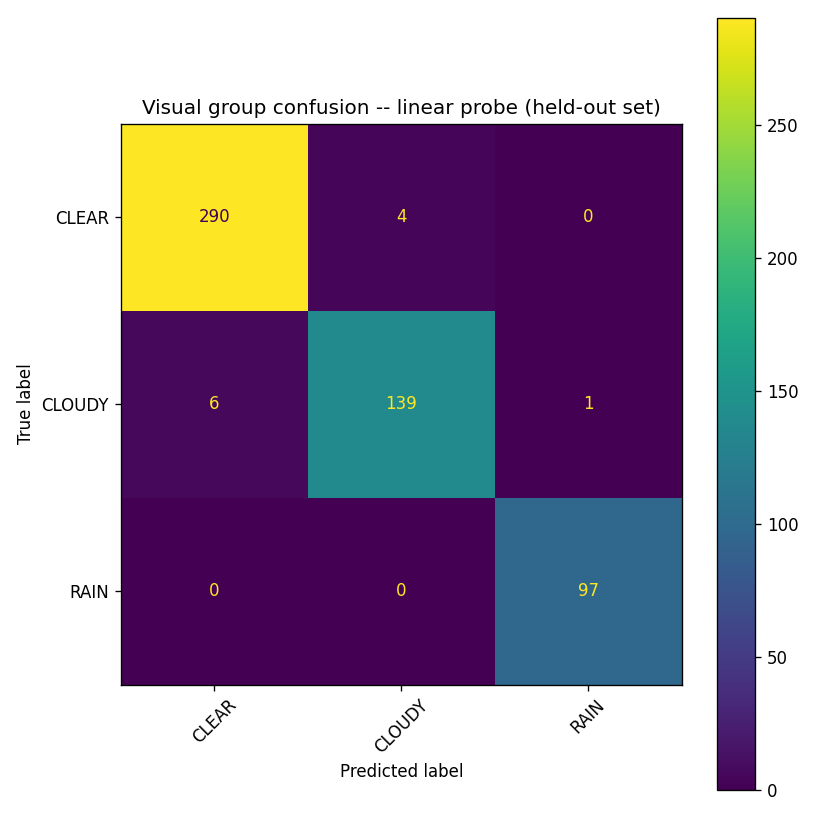
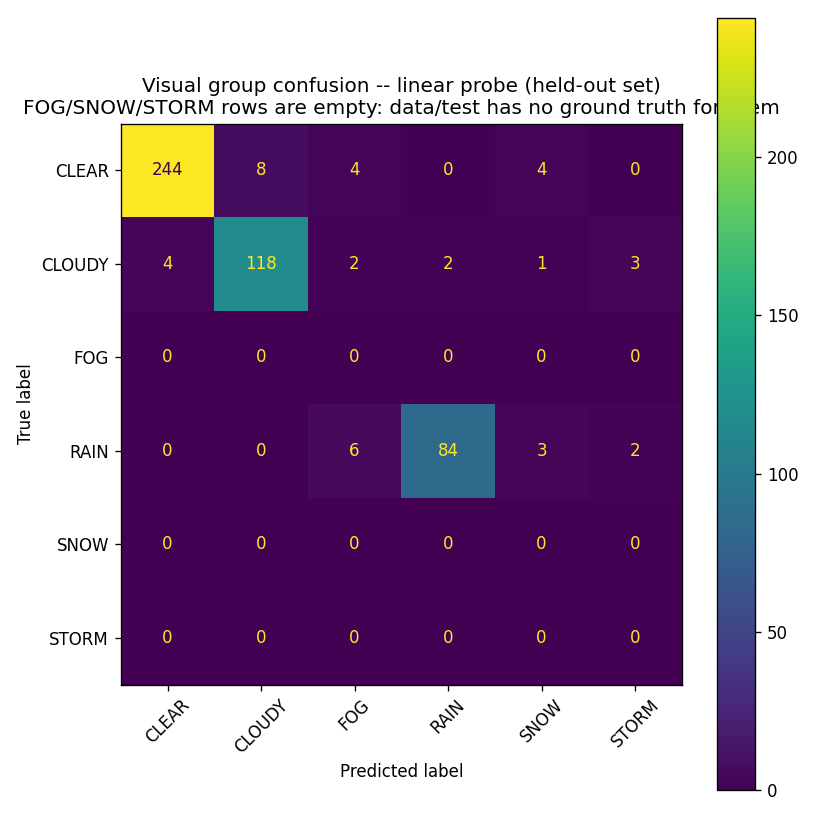
fix: dedupe the multiclass split and add honest FOG/SNOW/STORM coverage
Review found that alternating a sorted file list, as instructed, does not
account for the Multi-class Weather Dataset shipping the same photograph
under multiple filenames -- doing so places both copies of such a pair on
opposite sides of the split with near-certainty, leaking training images
into what was reported as held-out. split_dataset now deduplicates each
class by content hash (exact md5, then a dHash tier for recompressed
near-copies) before alternating, and clears only the destination files it
owns before re-copying so a re-run can't leave a stale copy from a prior
split sitting on the wrong side. 154 of 1,125 source images (13.7%) were
duplicates.

Also: the confusion matrix now uses the full six-group label set instead of
silently restricting to the three groups present in the held-out set;
zero-shot-vs-probe accuracy adds an explicit FOG/SNOW misclassification
rate, since the backend's contradiction matrix only admits FOG for FOG and
SNOW for SNOW; and a 5-fold stratified cross-validation pass over the
cached training embeddings (data/train_embeddings.npz, gitignored) gives an
honest out-of-fold per-class number for FOG/SNOW/STORM, which the held-out
set cannot cover at all since neither Kaggle source offers an independent
sample of those three groups.

Corrected held-out accuracy: 84.3% zero-shot vs 92.0% probe (was previously
reported as 85.6% vs 93.8% before the leak was removed).

diff --git a/training/train_probe.py b/training/train_probe.py
@@ -25,14 +25,25 @@ both sides, and the split is reproducible from source data alone.
 Run `split` first (copies half of each of the 4 classes into data/train and
 the other half into data/test), then run `train` against the combined
 data/train (Weather Image Recognition classes + the Multi-class train half).
+
+A note on why splitting alone is not enough: the Multi-class Weather Dataset
+ships the same photograph under multiple filenames -- some byte-identical,
+some a recompressed near-copy. Alternating a sorted file list without removing
+these first places both copies of such a pair on opposite sides of the split
+with near-certainty, which manufactures exactly the leakage the split exists
+to prevent. _deduplicate() below removes exact (md5) and near (dHash)
+duplicates within each class *before* alternating, so every surviving file is
+content-distinct from every other file in that class on both sides.
 """
 
+import hashlib
 import shutil
 import sys
 from collections import Counter
 from pathlib import Path
 
 import numpy as np
+from PIL import Image
 from sklearn.linear_model import LogisticRegression
 from sklearn.metrics import classification_report, confusion_matrix
 
@@ -59,34 +70,122 @@ SOURCE_TO_GROUP = {
 
 IMAGE_SUFFIXES = {".jpg", ".jpeg", ".png"}
 
+# A dHash Hamming distance at or below this is treated as "the same photograph,
+# recompressed or resized". Matches the tier a code review confirmed against
+# this exact dataset (32x32 RGB mean-abs-diff < 6 against a same-class random-pair
+# baseline of ~59.8), rather than an arbitrary guess.
+NEAR_DUPLICATE_DHASH_DISTANCE = 3
+
+# The slow part of this whole pipeline is embedding images on CPU (minutes);
+# fitting -- or cross-validating -- the classifier over already-computed
+# features is seconds. Caching here lets a retrain or a cross-validation pass
+# skip straight to the fast part. Gitignored by the existing `*.npz` rule.
+TRAIN_CACHE_PATH = Path("data/train_embeddings.npz")
+
+
+def _content_hash(path: Path) -> str:
+    return hashlib.md5(path.read_bytes()).hexdigest()
+
+
+def _dhash(path: Path, hash_size: int = 8) -> int:
+    """An 8x8 difference hash: robust to the mild recompression or resizing
+    that turns one duplicate photograph into a byte-different but
+    visually-identical second file, unlike the exact md5 check above."""
+    with Image.open(path) as image:
+        pixels = list(
+            image.convert("L").resize((hash_size + 1, hash_size), Image.LANCZOS).getdata()
+        )
+    bits = 0
+    for row in range(hash_size):
+        offset = row * (hash_size + 1)
+        for col in range(hash_size):
+            bits = (bits << 1) | int(pixels[offset + col] > pixels[offset + col + 1])
+    return bits
+
+
+def _hamming(a: int, b: int) -> int:
+    return bin(a ^ b).count("1")
+
+
+def _deduplicate(images: list[Path]) -> list[Path]:
+    """Keep one file per distinct photograph, in stable sorted order.
+
+    First pass removes exact byte-for-byte duplicates (md5). Second pass
+    removes near-duplicates (dHash within NEAR_DUPLICATE_DHASH_DISTANCE of a
+    file already kept) -- this is what catches the same photo re-saved at a
+    different quality or size under a different filename.
+    """
+    seen_md5: set[str] = set()
+    kept_hashes: list[int] = []
+    unique: list[Path] = []
+
+    for path in images:
+        digest = _content_hash(path)
+        if digest in seen_md5:
+            continue
+        seen_md5.add(digest)
+
+        fingerprint = _dhash(path)
+        if any(_hamming(fingerprint, other) <= NEAR_DUPLICATE_DHASH_DISTANCE for other in kept_hashes):
+            continue
+
+        kept_hashes.append(fingerprint)
+        unique.append(path)
+
+    return unique
+
 
 def split_dataset(source: Path, train_root: Path, test_root: Path) -> None:
     """Deterministically split a class-labelled image folder by file.
 
-    ``source`` holds one subdirectory per class. For each class, sort the
-    filenames and alternate: even index -> ``train_root/<class>``, odd index
-    -> ``test_root/<class>``. Copies rather than moves, so re-running is
-    idempotent and the original archive extraction is left untouched.
+    ``source`` holds one subdirectory per class. For each class, images are
+    deduplicated (see _deduplicate) and the survivors sorted and alternated:
+    even index -> ``train_root/<class>``, odd index -> ``test_root/<class>``.
+    Copies rather than moves, so the original archive extraction is left
+    untouched.
+
+    Re-running is idempotent even if the source directory has gained or lost
+    files since the last run (which would otherwise shift every later index
+    and leave a stale copy from the old split sitting on the wrong side, quietly
+    recreating the exact contamination this function exists to prevent):
+    before writing, any existing destination file whose name appears anywhere
+    in the *current* source listing is removed. This is scoped to this
+    source's own filenames rather than a blanket ``rmtree`` because a
+    destination class directory can be shared with an unrelated dataset under
+    the same class name -- ``rain`` here is also fed directly from the Weather
+    Image Recognition dataset, which must be left untouched.
     """
     for class_dir in sorted(source.iterdir()):
         if not class_dir.is_dir():
             continue
         images = sorted(p for p in class_dir.iterdir() if p.suffix.lower() in IMAGE_SUFFIXES)
+        source_names = {p.name for p in images}
+
+        unique = _deduplicate(images)
+        removed = len(images) - len(unique)
 
         train_dest = train_root / class_dir.name.lower()
         test_dest = test_root / class_dir.name.lower()
         train_dest.mkdir(parents=True, exist_ok=True)
         test_dest.mkdir(parents=True, exist_ok=True)
 
+        for dest in (train_dest, test_dest):
+            for existing in dest.iterdir():
+                if existing.name in source_names:
+                    existing.unlink()
+
         train_count = test_count = 0
-        for index, path in enumerate(images):
+        for index, path in enumerate(unique):
             if index % 2 == 0:
                 shutil.copy2(path, train_dest / path.name)
                 train_count += 1
             else:
                 shutil.copy2(path, test_dest / path.name)
                 test_count += 1
-        print(f"{class_dir.name}: {len(images)} images -> {train_count} train / {test_count} test")
+        print(
+            f"{class_dir.name}: {len(images)} images, {removed} duplicate(s) removed, "
+            f"{len(unique)} unique -> {train_count} train / {test_count} test"
+        )
 
 
 def embed_folder(model: VisionModel, root: Path) -> tuple[np.ndarray, list[str]]:
@@ -109,9 +208,27 @@ def embed_folder(model: VisionModel, root: Path) -> tuple[np.ndarray, list[str]]
     return np.stack(vectors), labels
 
 
+def load_or_embed(model_factory, source: Path, cache_path: Path) -> tuple[np.ndarray, list[str]]:
+    """Reuse a cached embedding of ``source`` if one exists, else compute and cache it.
+
+    ``model_factory`` is only called on a cache miss, so a cached run does not
+    pay even the cost of loading CLIP.
+    """
+    if cache_path.exists():
+        payload = np.load(cache_path, allow_pickle=False)
+        labels = [str(label) for label in payload["labels"]]
+        print(f"loaded {len(labels)} cached embeddings from {cache_path}")
+        return payload["features"], labels
+
+    features, labels = embed_folder(model_factory(), source)
+    cache_path.parent.mkdir(parents=True, exist_ok=True)
+    np.savez(cache_path, features=features, labels=np.array(labels))
+    print(f"cached {len(labels)} embeddings to {cache_path}")
+    return features, labels
+
+
 def train(source: Path, destination: Path) -> None:
-    model = VisionModel()
-    features, labels = embed_folder(model, source)
+    features, labels = load_or_embed(VisionModel, source, TRAIN_CACHE_PATH)
     print(f"\n{len(labels)} embeddings, distribution: {Counter(labels)}")
 
     classifier = LogisticRegression(max_iter=2000, C=1.0, multi_class="multinomial")
